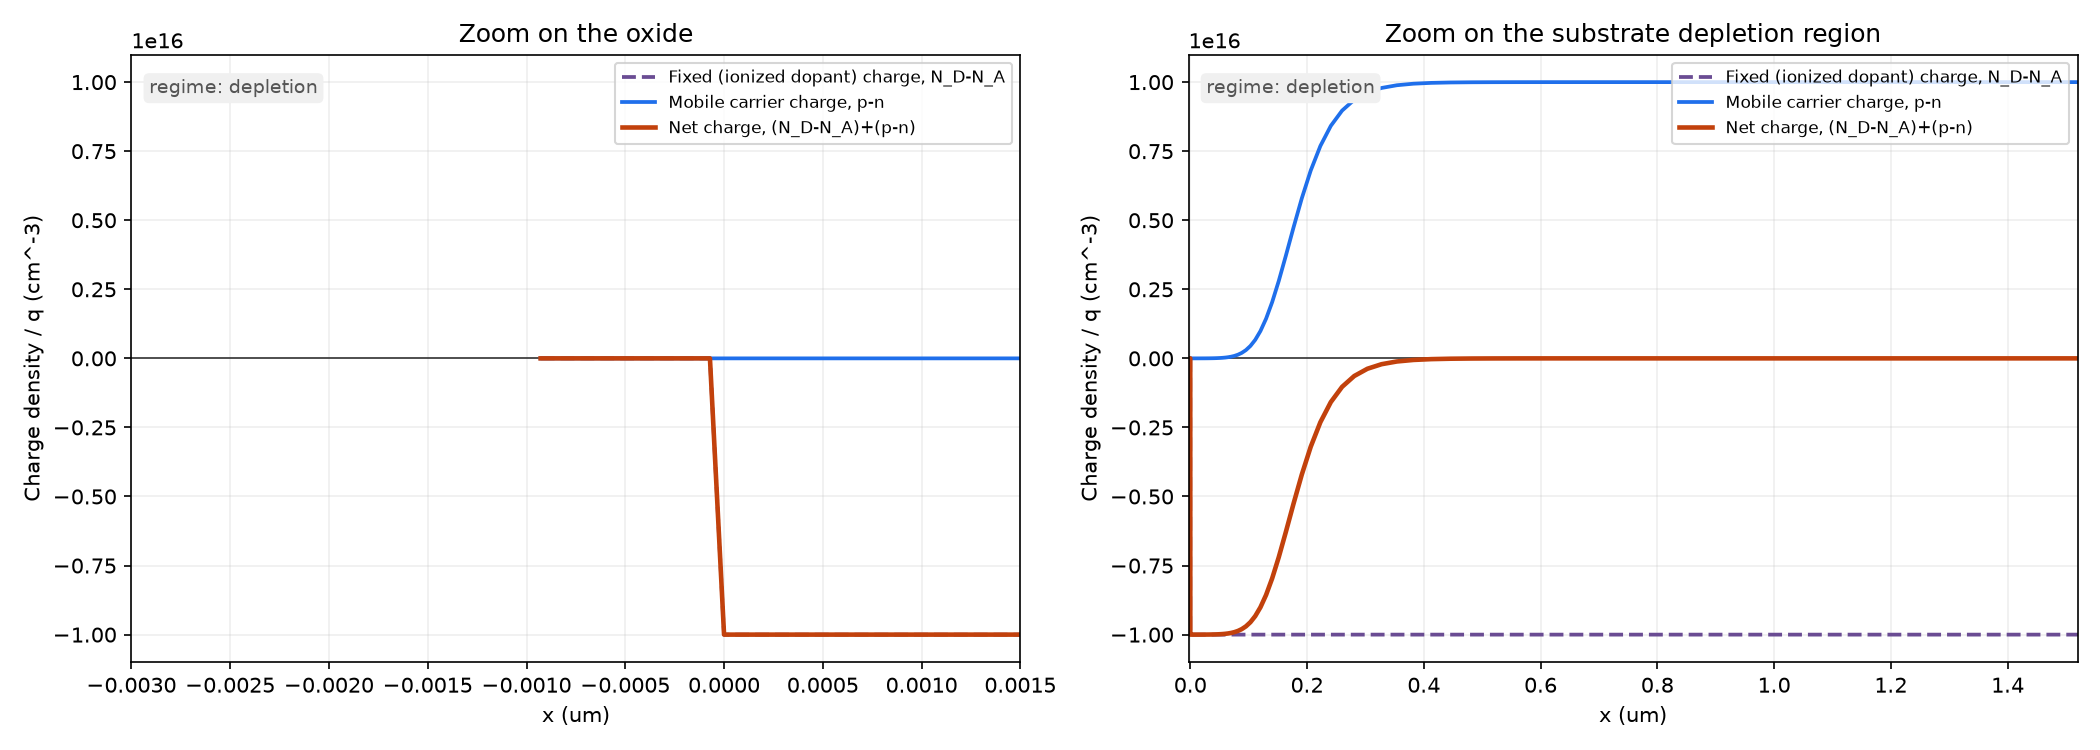
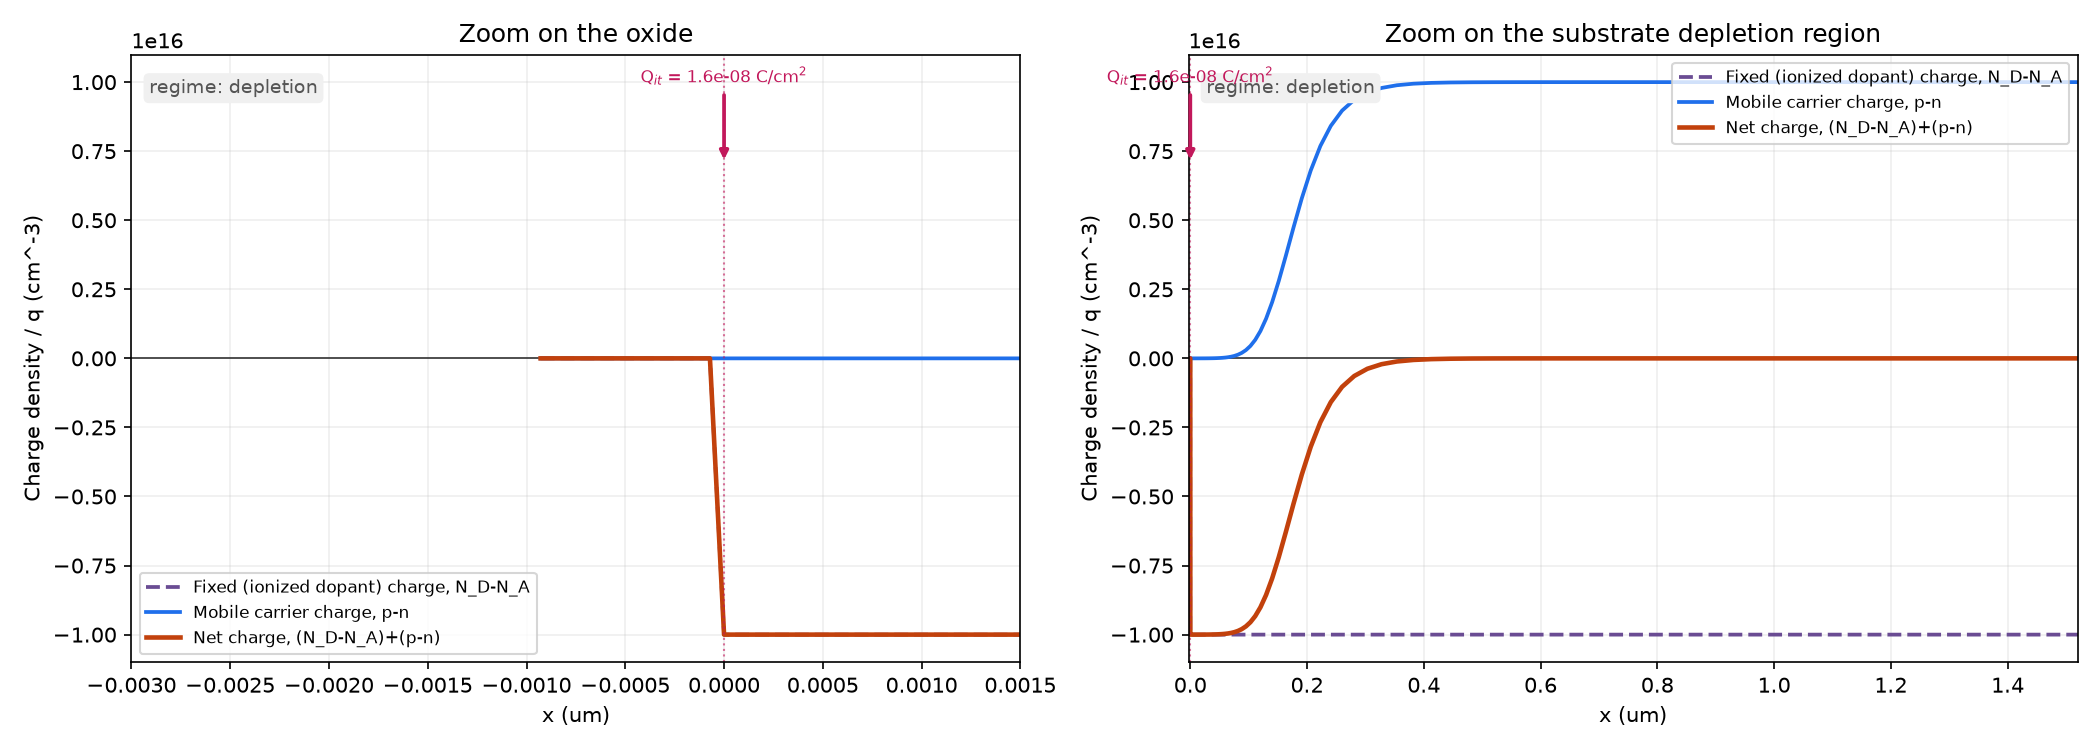
Show interface charge in the structure JSON and charge-density plot
Feature/interface-mesh added Qit_cm2 as a real source term in the
Poisson solve (verified via Gauss's law), but never surfaced it in any
diagnostic output - so a nonzero interface charge correctly changed the
band bending and C-V curve, but was invisible in 07_charge_density.png,
which only ever plotted doping_cm3 and mobile carrier charge.

core/structure_io.py's build_structure gains an optional interfaces=
list ({"x_um", "Qit_cm2"} entries); omitted from the doc entirely when
empty or every entry is Qit_cm2=0.0, so every existing structure JSON
(diode, and MOS examples with no interface charge) is unaffected.
mos/mos_main.py now passes it through from mesh.build_mos_grid's
"interfaces" list.

core/plot.py's plot_charge draws it as a labeled arrow/marker at the
interface's x position instead of a literal curve - Qit_cm2 is an areal
charge density (C/cm^2), a different unit from the volumetric (cm^-3)
traces already on that axis, so it can't share their y-scale as a real
spike; this is the standard textbook convention for showing a sheet
charge on a charge-density plot.

Changed region(s): [[0.2786, 0.092, 0.4952, 0.2147], [0.0619, 0.7667, 0.2476, 0.8893], [0.5262, 0.092, 0.619, 0.1227]]

diff --git a/core/structure_io.py b/core/structure_io.py
@@ -30,6 +30,12 @@ Schema (schema_version=1, dim=1):
                    "phip": [...]}} - fields are per-node, same length as
                    grid.x_um. NaN (e.g. phin/phip inside an oxide, where
                    they're undefined) is written as JSON null.
+  interfaces     : optional list of {"x_um", "Qit_cm2"} - a fixed sheet
+                   (areal) charge density at a material boundary (see
+                   core/interfaces.py's Interface). Omitted entirely for a
+                   device with none (e.g. the diode) or when every
+                   interface present has Qit_cm2=0.0, so it's not a
+                   schema-breaking addition for any existing doc.
 """
 import json
 
@@ -48,7 +54,8 @@ def _sig_list(arr, ndigits=6):
     return [_sig(v, ndigits) for v in np.asarray(arr, dtype=float).tolist()]
 
 
-def build_structure(*, device, material, regions, x_um, doping_cm3, bias_points, dim=1):
+def build_structure(*, device, material, regions, x_um, doping_cm3, bias_points, dim=1,
+                     interfaces=None):
     """Build the structure+fields doc (pure, no I/O) - see the module
     docstring for the schema. `bias_points` items are {"label", "bias",
     "fields": {...}} with an optional "regime" key, and `regions` items are
@@ -61,7 +68,7 @@ def build_structure(*, device, material, regions, x_um, doping_cm3, bias_points,
     for k, v in material.items():
         material_out[k] = _sig_list(v, 8) if np.ndim(v) > 0 else _sig(v, 8)
 
-    return {
+    doc = {
         "schema_version": SCHEMA_VERSION,
         "dim": dim,
         "device": device,
@@ -79,6 +86,13 @@ def build_structure(*, device, material, regions, x_um, doping_cm3, bias_points,
             for bp in bias_points
         ],
     }
+    nonzero_interfaces = [iface for iface in (interfaces or []) if iface.get("Qit_cm2", 0.0) != 0.0]
+    if nonzero_interfaces:
+        doc["interfaces"] = [
+            {"x_um": _sig(iface["x_um"]), "Qit_cm2": _sig(iface["Qit_cm2"], 8)}
+            for iface in nonzero_interfaces
+        ]
+    return doc
 
 
 def write_structure(path, doc):

diff --git a/core/plot.py b/core/plot.py
@@ -215,6 +215,23 @@ def plot_charge(doc, bias_index=0, ax=None, xlim_um=None, fields=None):
     if "net" in fields:
         ax.plot(x_um, net, color="#c2410c", lw=2.2, label="Net charge, (N_D-N_A)+(p-n)")
 
+    # Interface (sheet) charge, e.g. a fixed Si/SiO2 Qit - a genuinely
+    # different quantity (C/cm^2, areal) from the volumetric (cm^-3) traces
+    # above, so it can't share their y-scale as a literal spike; drawn as a
+    # labeled marker/arrow at its location instead, the usual textbook
+    # convention for an interface charge sheet.
+    for iface in doc.get("interfaces", []):
+        y0, y1 = ax.get_ylim()
+        yspan = y1 - y0 if y1 > y0 else 1.0
+        color = "#c2185b"
+        ax.annotate(
+            f"Q$_{{it}}$ = {iface['Qit_cm2']:.3g} C/cm$^2$",
+            xy=(iface["x_um"], y0 + 0.82 * yspan), xytext=(iface["x_um"], y0 + 0.98 * yspan),
+            arrowprops=dict(arrowstyle="-|>", color=color, lw=1.8),
+            ha="center", va="top", fontsize=8, color=color,
+        )
+        ax.axvline(iface["x_um"], color=color, lw=1.0, ls=":", alpha=0.6)
+
     if xlim_um is not None:
         ax.set_xlim(*xlim_um)
     ax.set_xlabel("x (um)")

diff --git a/mos/mos_main.py b/mos/mos_main.py
@@ -294,12 +294,16 @@ def main():
                      "x_range_um": [0.0, g["t_si"] * 1e4],
                      "kind": "semiconductor", "doping_type": "p" if is_p_sub else "n"})
 
+    interfaces_out = [{"x_um": x[iface.node_index] * 1e4, "Qit_cm2": iface.Qit_cm2}
+                       for iface in g["interfaces"]]
+
     struct_doc = sio.build_structure(
         device="mos",
         material={"eps_r": mat.eps_r, "ni_cm3": mat.ni, "T": mat.T,
                   "chi_eV": chi_per_node, "Eg_eV": Eg_per_node},
         regions=regions,
         x_um=x_um, doping_cm3=Cdop, bias_points=struct_bias_points,
+        interfaces=interfaces_out,
     )
     if structure_file:
         sio.write_structure(os.path.join(OUT, structure_file), struct_doc)
